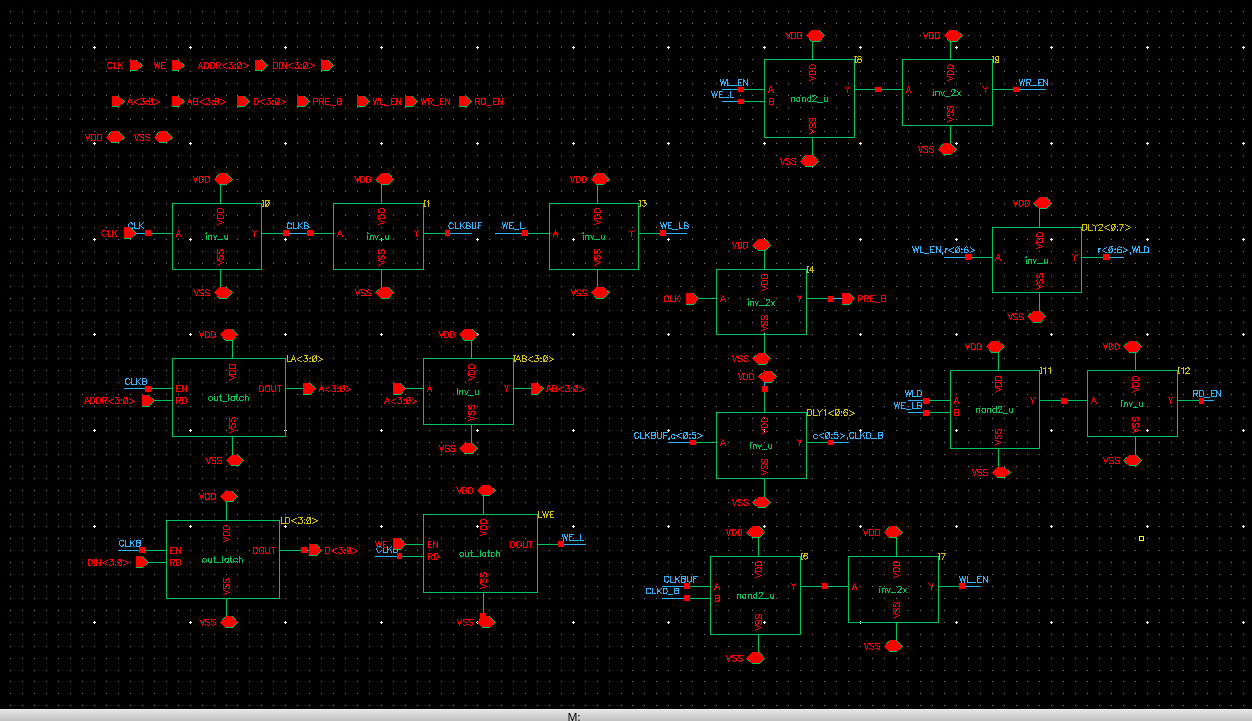
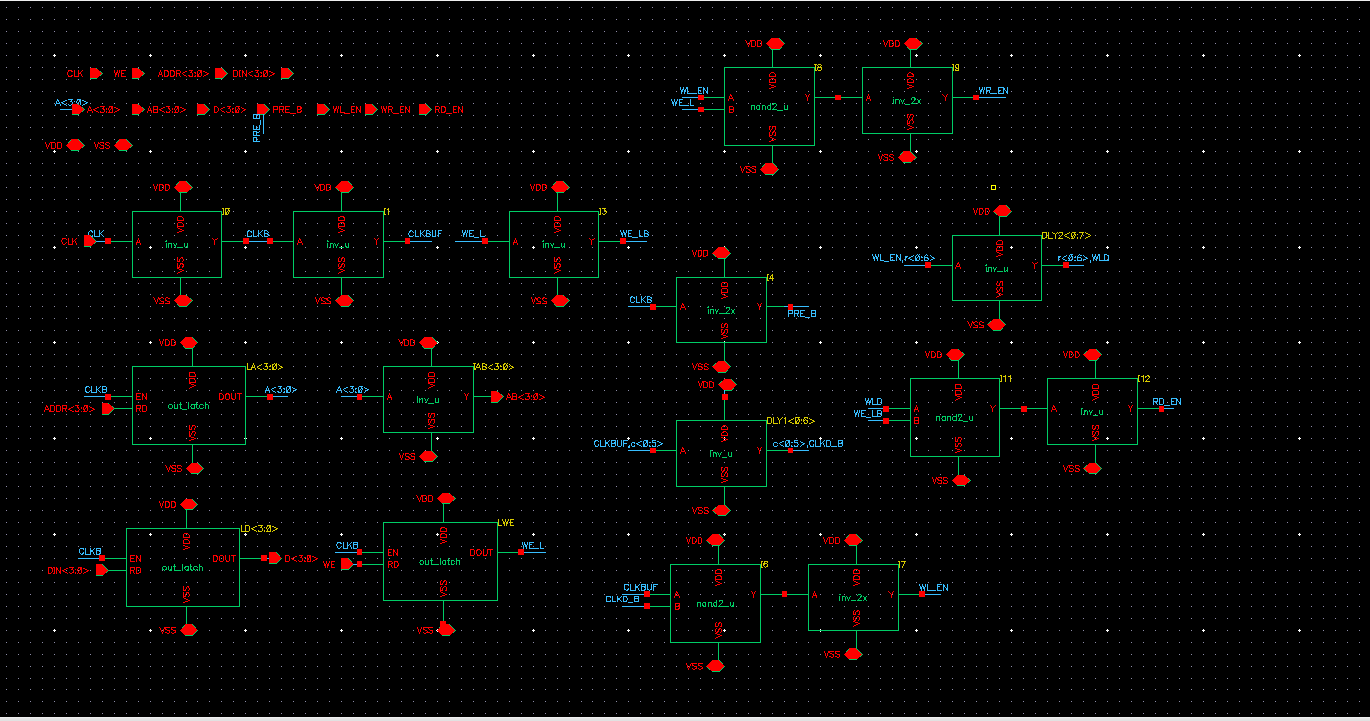
media: update controller schematic (PRE_B now follows CLK)

diff --git a/results/controller_schematic.md b/results/controller_schematic.md
@@ -10,7 +10,7 @@ Blocks, read from the schematic (no simulation yet):
 | A<3:0>, D<3:0>, WE_L | `out_latch` cells LA, LD, LWE with EN = CLKB and RD = ADDR, DIN, WE. Transparent while CLK is low, holding while CLK is high |
 | AB<3:0> | `inv_u` on A<3:0> |
 | WE_LB | `inv_u` (I3) on WE_L |
-| PRE_B | `inv_2x` (I4) on CLK, so PRE_B is the inverted clock |
+| PRE_B | `inv_2x` (I4) on CLKB (updated version): CLKB is the inverted clock, so PRE_B follows CLK. Earlier version drove I4 from CLK directly, giving an inverted clock (`controller_schematic_v1_prebinverted.png`) |
 | CLKD_B | CLKBUF through DLY1, a chain of 7 `inv_u` (inverting) |
 | WL_EN | `nand2_u` (I6) of CLKBUF and CLKD_B, then `inv_2x` (I7). A one-shot: a pulse on each rising edge, width set by the DLY1 delay |
 | WR_EN | `nand2_u` (I8) of WL_EN and WE_L, then `inv_2x` (I9): write cycles only |
@@ -21,5 +21,6 @@ Matches the read-column result: RD_EN rises one chain delay after WL_EN and fall
 
 Open items:
 - Simulate: WL_EN width (target about 140 ps at 50%), RD_EN lead over WL, WR_EN width, and the margin on each edge.
-- Check PRE_B polarity. PRE_B is the inverted CLK, so if the precharge devices conduct while PRE_B is low, precharge is on while CLK is high, the same time the WL_EN pulse fires after the rising edge. The handout (2.2c) needs the wordline to rise after precharge releases. If the precharge is active-low, PRE_B probably needs to follow CLK (low while CLK is low, rising with it).
+- PRE_B polarity: the updated schematic makes PRE_B follow CLK (low while CLK is low, rising with it), which fixes the overlap flagged in the first version if precharge is active-low. Still confirm against the `precharge` cell's polarity and that PRE_B rises before WL_EN fires, with margin.
+- Updated captures: `controller_schematic.png` (full), `controller_schematic_zoom_left.png`, `controller_schematic_zoom_right.png`; the full view also shows an extra `A<3:0>` and a vertical `PRE_B` label near the top-left pins.
 - Margin recovery if C_BL is 20% larger (longer DLY chains or a replica).
